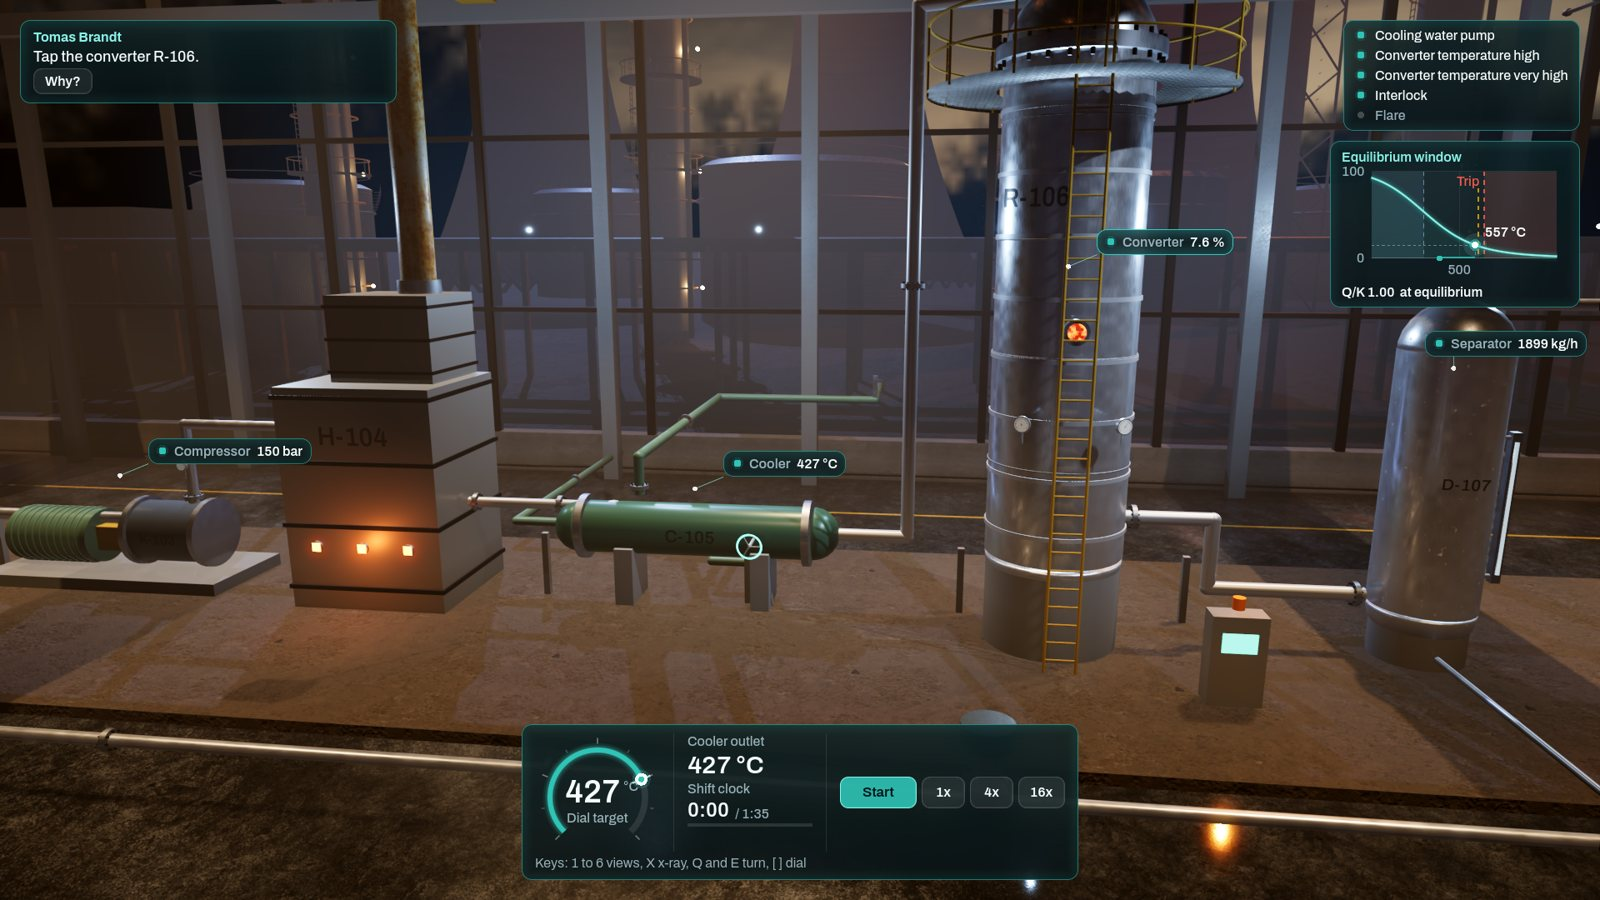
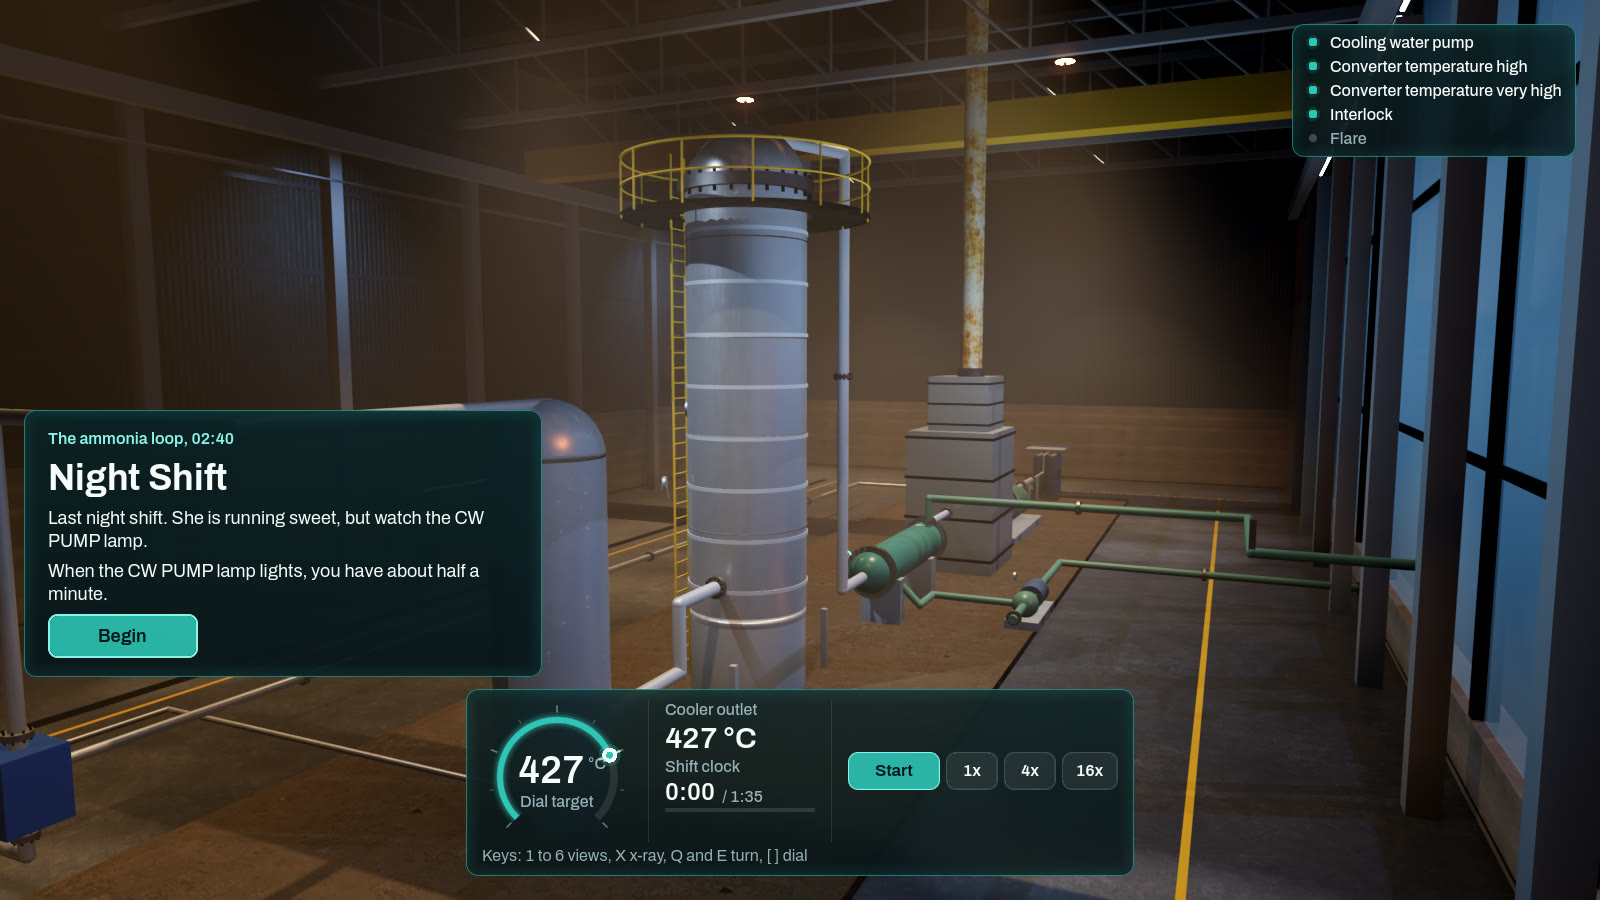
README and site for 0.12 (owner rule: shots and GIFs of the released build): title over the lab, the burner and the fired heater in the hall, L13 and L10 hall, L14 lab, night shift; the colour-shift and trip GIFs re-recorded on the RTX 4090 (smaller: 4.6 and 3.6 MB); the site's 'new in' section and 
Claude-Session: https://claude.ai/code/session_01LLtMdbo6QrqLGE18L1gpTt

diff --git a/site/index.html b/site/index.html
@@ -49,13 +49,13 @@
       <p class="tagline">Build a chemical plant, turn the key, read what it makes.</p>
       <p class="lede">Build it, turn the key, and see if it holds.</p>
       <div class="cta">
-        <a class="btn go" id="dl-main" href="https://github.com/blackmetaltech/equilibrium/releases/latest">Download <small id="dl-main-sub">v0.11.0</small></a>
+        <a class="btn go" id="dl-main" href="https://github.com/blackmetaltech/equilibrium/releases/latest">Download <small id="dl-main-sub">v0.12.0</small></a>
         <a class="btn" href="wiki/">Player wiki</a>
       </div>
       <p class="fine" id="dl-note">Free. Source on <a href="https://github.com/blackmetaltech/equilibrium">GitHub</a>.</p>
     </div>
     <figure class="hero-shot">
-      <a href="assets/shots/rig.jpg" class="zoom"><img src="assets/shots/rig.jpg" alt="L14 Two Flasks: the bright private lab, the piston flask of brown N2O4 on its dais, the runs-left card and the Call box" width="1600" height="900"></a>
+      <a href="assets/shots/rig.jpg" class="zoom"><img src="assets/shots/rig.jpg" alt="L14 Two Flasks: the private lab, the piston flask of brown N2O4 on its dais beside the control desk, the brief and the Call box" width="1600" height="900"></a>
       <figcaption>L14 Two Flasks: N₂O₄ on NIST-JANAF data in a piston flask, the textbook's twin beside it.</figcaption>
     </figure>
   </div>
@@ -67,12 +67,12 @@
     <h2>Build it, commission it, read what happened</h2>
     <ol class="steps">
       <li class="step">
-        <a href="assets/shots/title.jpg" class="zoom"><img src="assets/shots/title.jpg" alt="The title screen: Continue, New works, Works map and a strip that opens Chapter 3 in the new look" width="1600" height="900" loading="lazy"></a>
+        <a href="assets/shots/title.jpg" class="zoom"><img src="assets/shots/title.jpg" alt="The title screen over the private lab: the flask rig on its dais, the tank bay behind the glass, the menu on the left" width="1600" height="900" loading="lazy"></a>
         <h3><b>1</b> Take the job</h3>
         <p>A goal with numbers and three flasks to earn. Some jobs ask you to call the answer first.</p>
       </li>
       <li class="step">
-        <a href="assets/shots/chapter3-hall.jpg" class="zoom"><img src="assets/shots/chapter3-hall.jpg" alt="L13: three adiabatic beds in the hall glowing by outlet temperature, with waste-heat boilers between them" width="1600" height="900" loading="lazy"></a>
+        <a href="assets/shots/chapter3-hall.jpg" class="zoom"><img src="assets/shots/chapter3-hall.jpg" alt="L13: an adiabatic bed in the hall glowing orange by its outlet temperature, the pipe rack behind" width="1600" height="900" loading="lazy"></a>
         <h3><b>2</b> Build and commission</h3>
         <p>Place parts, pipe them, turn the key. The engine solves your plant.</p>
       </li>
@@ -92,10 +92,10 @@
       <figcaption>An animated capture from the game: halve the volume and the brown darkens, then fades part of the way back as N₂O₄ re-forms.</figcaption>
     </figure>
     <div>
-      <p class="kicker">New in 0.11</p>
-      <h2>Chapters 1 and 3 in the new look</h2>
-      <p>The prologue, chapter 1 and chapter 3 are in a 3D hall and lab. Your plant stands in the hall once it runs.</p>
-      <p>Other chapters keep the classic look. A pad works everywhere, the drafting table too.</p>
+      <p class="kicker">New in 0.12</p>
+      <h2>The lab is home</h2>
+      <p>The title, the map and the briefs live in your private lab.</p>
+      <p>Chapter 2 builds in the hall. The equipment is rebuilt.</p>
     </div>
   </div>
 </section>
@@ -105,8 +105,8 @@
     <p class="kicker">Campaign</p>
     <h2>A prologue, ten chapters and a Career</h2>
     <div class="gallery">
-      <figure><a href="assets/shots/lab.jpg" class="zoom"><img src="assets/shots/lab.jpg" alt="L02, chapter 1: your sulfur burner plant in the hall, the burner glowing, the stack and its flue analyser" width="1600" height="900" loading="lazy"></a><figcaption><b>The burner house.</b> Chapter 1 in the hall.</figcaption></figure>
-      <figure><a href="assets/shots/l10-printout.jpg" class="zoom"><img src="assets/shots/l10-printout.jpg" alt="L10 The Wall: the player's commissioned plant in the hall, the compressor, the converter glowing at its window, the separator and the tank" width="1600" height="900" loading="lazy"></a><figcaption><b>L10 The Wall.</b> Your plant in the hall once it runs.</figcaption></figure>
+      <figure><a href="assets/shots/lab.jpg" class="zoom"><img src="assets/shots/lab.jpg" alt="L02, chapter 1: your sulfur burner in the hall, a drum on saddles with its fan, the peep window lighting the floor" width="1600" height="900" loading="lazy"></a><figcaption><b>The burner house.</b> Chapter 1 in the hall.</figcaption></figure>
+      <figure><a href="assets/shots/l10-printout.jpg" class="zoom"><img src="assets/shots/l10-printout.jpg" alt="L10 The Wall: your converter in the hall with its platform and caged ladder, the pipe rack behind" width="1600" height="900" loading="lazy"></a><figcaption><b>L10 The Wall.</b> Your plant in the hall once it runs.</figcaption></figure>
       <figure><img src="assets/shots/night-trip.gif" alt="A recording of Night Shift: the cooling water pump trips, nobody turns the cooler, and the interlock takes the loop down to the flare" width="640" height="360" loading="lazy"><figcaption><b>Night Shift.</b> Leave the cooler alone and the interlock trips the loop.</figcaption></figure>
     </div>
     <p class="fine"><a href="wiki/">Every level in the wiki</a>, generated from the game's own text.</p>

diff --git a/README.md b/README.md
@@ -1,16 +1,30 @@
 # ⚗ EQUILIBRIUM — build a chemical plant, turn the key, read what it makes
 
-**[Releases](https://github.com/blackmetaltech/equilibrium/releases)** · **[Changelog](CHANGELOG.md)** · **[Critique](docs/CRITIQUE-0.11.md)** · **[Site](https://equilibrium.blackmetal.tech)** · **[Issues](https://github.com/blackmetaltech/equilibrium/issues)**
+**[Releases](https://github.com/blackmetaltech/equilibrium/releases)** · **[Changelog](CHANGELOG.md)** · **[Critique](docs/CRITIQUE-0.12.md)** · **[Site](https://equilibrium.blackmetal.tech)** · **[Issues](https://github.com/blackmetaltech/equilibrium/issues)**
 
 **Build a chemical plant and turn the key. Equilibrium, kinetics and heat decide if it works.**
 
 A **Godot 4.7** game with the chemistry engine in TypeScript.
 
-> **Alpha (0.11.0).** Chapters 1 and 3 and the prologue are in the new look; the rest is classic. Played on Linux; Windows untested.
+> **Alpha (0.12.0).** The prologue and chapters 1-3 are in the new look (L09 is still classic). Played on Linux; Windows untested.
 
-![The title: the night plant hall in the new look, the menu on glass](docs/readme/title-new-look.jpg)
+![The title: your private lab, the flask rig on its dais, the tank bay behind the glass](docs/readme/title-lab.jpg)
 
-## What's new in 0.11: chapter 1 in the new look
+## What's new in 0.12: the lab at home
+
+**The lab is the home screen.** The title, the Works map and the briefings live in your private lab. The map and the brief lie on a drafting table.
+
+| Your sulfur burner in the hall: a drum on saddles, its fan and burner front, the peep window lighting the floor | L08: the fired heater and the feed-effluent exchanger |
+|---|---|
+| ![burner in the hall](docs/readme/hall-burner.jpg) | ![fired heater](docs/readme/hall-heater.jpg) |
+
+**Chapter 2 builds in the hall.** L05-L08 get a splitter, a gasifier, a CO burner, a fired heater, an exchanger and a cooler. L09 is still classic.
+
+**Equipment you can read.** Dished heads, nozzles, cages, saddles, an I-beam rack behind the plant, beds that glow red to orange with temperature. Each level has its own camera.
+
+**Plain text.** Short briefs, prompts that name your device, no all-caps chips.
+
+## What was new in 0.11: chapter 1 in the new look
 
 ![L14: the private lab, bright, with the twin flask on the dais](docs/readme/lab-gleam.jpg)
 
@@ -34,11 +48,11 @@ A **Godot 4.7** game with the chemistry engine in TypeScript.
 |---|---|
 | ![L14 lab](docs/readme/two-flasks-lab.jpg) | ![L14 rig](docs/readme/two-flasks-rig.jpg) |
 
-| L10-L13: the player's own commissioned plant in the hall (beds glow by outlet temperature, dark below light-off, white past sintering; boilers steam by duty) | Night Shift: leave the cooler alone (or turn it too late) and the interlock trips the loop |
+| L10-L13: the player's own commissioned plant in the hall (beds glow by outlet temperature; boilers steam by duty) | Night Shift: leave the cooler alone (or turn it too late) and the interlock trips the loop |
 |---|---|
 | ![chapter 3 hall](docs/readme/chapter3-hall.jpg) | ![night trip](docs/readme/night-trip.gif) |
 
-**New and classic.** Chapter 3 and the prologue are new look; every other chapter is classic and labelled so.
+**New and classic.** The Works map labels each chapter New look or classic.
 
 ## What was new in 0.9
 
